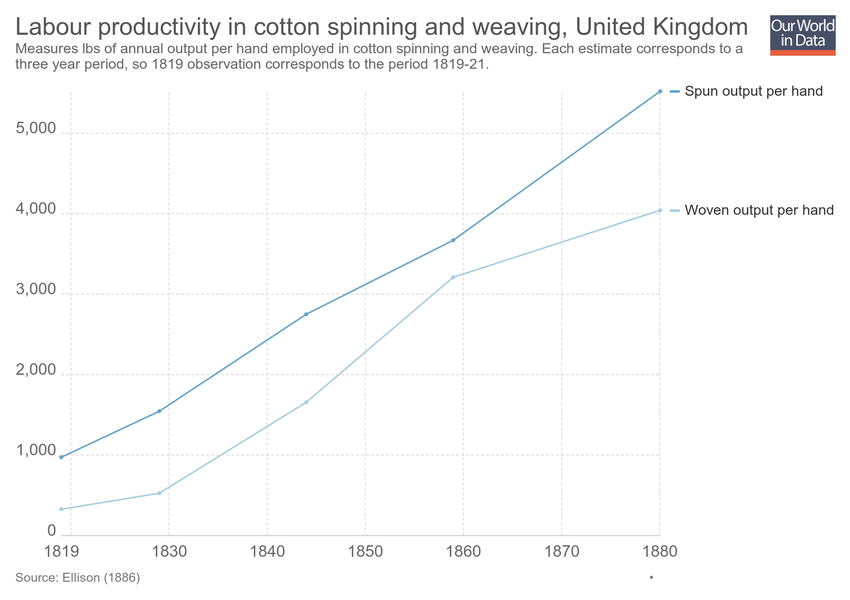
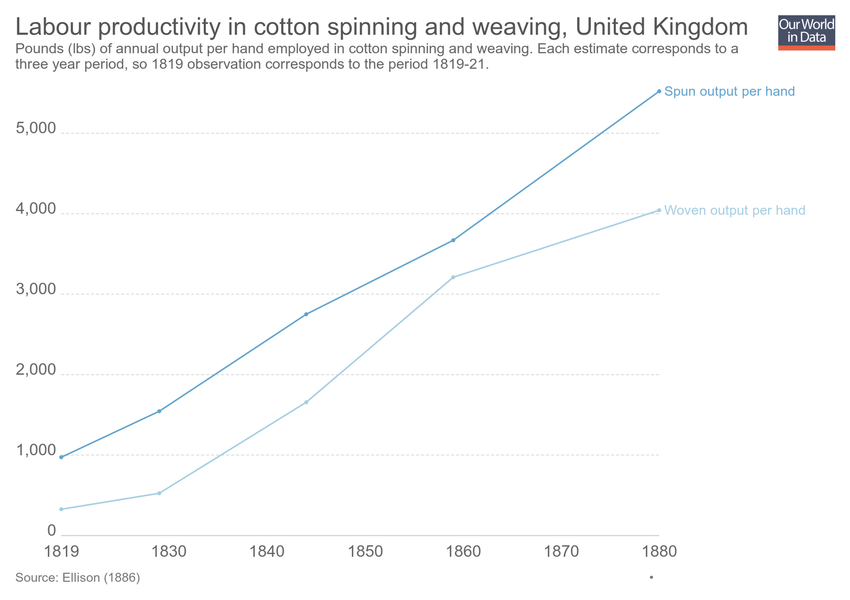
Updating chart labour-productivity-in-cotton-spinning-and-weaving

diff --git a/grapher/rate-of-internationally-observed-elections.html b/grapher/rate-of-internationally-observed-elections.html
@@ -1,4 +1,4 @@
-<!doctype html><html><head><meta name="viewport" content="width=device-width, initial-scale=1" /><title>Internationally observed elections (%) - Our World in Data</title><meta name="description" content="Percentage of internationally observed elections and whether they were criticized by international observers. Figures cover 1,754 election events in 157 independent states, excluding those with population less than 250,000." /><link rel="canonical" href="https://ourworldindata.org/grapher/rate-of-internationally-observed-elections" /><meta property="fb:app_id" content="1149943818390250" /><meta property="og:url" content="https://ourworldindata.org/grapher/rate-of-internationally-observed-elections" /><meta property="og:title" content="Internationally observed elections (%)" /><meta property="og:description" content="Percentage of internationally observed elections and whether they were criticized by international observers. Figures cover 1,754 election events in 157 independent states, excluding those with population less than 250,000." /><meta property="og:image" content="https://ourworldindata.org/grapher/exports/rate-of-internationally-observed-elections.png?v=16" /><meta property="og:image:width" content="850" /><meta property="og:image:height" content="600" /><meta property="og:site_name" content="Our World in Data" /><meta name="twitter:card" content="summary_large_image" /><meta name="twitter:site" content="@OurWorldInData" /><meta name="twitter:creator" content="@OurWorldInData" /><meta name="twitter:title" content="Internationally observed elections (%)" /><meta name="twitter:description" content="Percentage of internationally observed elections and whether they were criticized by international observers. Figures cover 1,754 election events in 157 independent states, excluding those with population less than 250,000." /><meta name="twitter:image" content="https://ourworldindata.org/grapher/exports/rate-of-internationally-observed-elections.png?v=16" /><style>
+<!doctype html><html><head><meta name="viewport" content="width=device-width, initial-scale=1" /><title>Internationally observed elections by Western monitors - Our World in Data</title><meta name="description" content="Estimates correspond to the number of international elections that were either observed and criticized by Western monitors, observed and not criticized by Western monitors, or elections that were not observed by Western monitors. Criticism refers to allegations of significant vote-fraud." /><link rel="canonical" href="https://ourworldindata.org/grapher/rate-of-internationally-observed-elections" /><meta property="fb:app_id" content="1149943818390250" /><meta property="og:url" content="https://ourworldindata.org/grapher/rate-of-internationally-observed-elections" /><meta property="og:title" content="Internationally observed elections by Western monitors" /><meta property="og:description" content="Estimates correspond to the number of international elections that were either observed and criticized by Western monitors, observed and not criticized by Western monitors, or elections that were not observed by Western monitors. Criticism refers to allegations of significant vote-fraud." /><meta property="og:image" content="https://ourworldindata.org/grapher/exports/rate-of-internationally-observed-elections.png?v=9" /><meta property="og:image:width" content="850" /><meta property="og:image:height" content="600" /><meta property="og:site_name" content="Our World in Data" /><meta name="twitter:card" content="summary_large_image" /><meta name="twitter:site" content="@OurWorldInData" /><meta name="twitter:creator" content="@OurWorldInData" /><meta name="twitter:title" content="Internationally observed elections by Western monitors" /><meta name="twitter:description" content="Estimates correspond to the number of international elections that were either observed and criticized by Western monitors, observed and not criticized by Western monitors, or elections that were not observed by Western monitors. Criticism refers to allegations of significant vote-fraud." /><meta name="twitter:image" content="https://ourworldindata.org/grapher/exports/rate-of-internationally-observed-elections.png?v=9" /><style>
         html, body {
             height: 100%;
             margin: 0;
@@ -20,8 +20,8 @@
         }
     </style><noscript><style>
                     figure { display: none !important; }
-                </style></noscript><link rel="stylesheet" href="https://ourworldindata.org/grapher/assets/commons.bundle.ac09ff8f098f0c7be836.css" /><link rel="preload" href="/grapher/data/variables/97378+97379.json?v=16" as="fetch" crossorigin /></head><body class="singleChart"><figure data-grapher-src="/grapher/rate-of-internationally-observed-elections"></figure><noscript id="fallback"><img src="/grapher/exports/rate-of-internationally-observed-elections.svg" /><p>Interactive visualization requires JavaScript</p></noscript><script src="https://cdn.polyfill.io/v2/polyfill.min.js?features=es6,fetch"></script><script src="https://ourworldindata.org/grapher/assets/commons.bundle.ac09ff8f098f0c7be836.js"></script><script src="https://ourworldindata.org/grapher/assets/charts.bundle.dcf65b68eddaba4c6a58.js"></script><script>
-        var jsonConfig = {"id":2589,"map":{"projection":"World","colorSchemeLabels":[],"colorSchemeValues":[],"colorSchemeMinValue":0,"customNumericColors":[],"customCategoryColors":{},"customCategoryLabels":{},"customHiddenCategories":{}},"tab":"chart","slug":"rate-of-internationally-observed-elections","type":"StackedArea","title":"Internationally observed elections (%)","xAxis":{"scaleType":"linear"},"yAxis":{"max":80,"min":0,"scaleType":"linear"},"version":16,"subtitle":"Percentage of internationally observed elections and whether they were criticized by international observers. Figures cover 1,754 election events in 157 independent states, excluding those with population less than 250,000.","hasMapTab":false,"stackMode":"absolute","dimensions":[{"display":{"name":"Percent of elections observed and criticised","unit":"%"},"property":"y","variableId":97378},{"display":{"name":"Percent of elections observed and not criticised"},"property":"y","variableId":97379}],"hasChartTab":true,"isPublished":true,"selectedData":[{"index":0,"entityId":355},{"index":1,"entityId":355}],"addCountryMode":"change-country","baseColorScheme":"Plasma","hideRelativeToggle":true,"hideTitleAnnotation":true};
+                </style></noscript><link rel="stylesheet" href="https://ourworldindata.org/grapher/assets/commons.bundle.ac09ff8f098f0c7be836.css" /><link rel="preload" href="/grapher/data/variables/97399+97400+97401.json?v=9" as="fetch" crossorigin /></head><body class="singleChart"><figure data-grapher-src="/grapher/rate-of-internationally-observed-elections"></figure><noscript id="fallback"><img src="/grapher/exports/rate-of-internationally-observed-elections.svg" /><p>Interactive visualization requires JavaScript</p></noscript><script src="https://cdn.polyfill.io/v2/polyfill.min.js?features=es6,fetch"></script><script src="https://ourworldindata.org/grapher/assets/commons.bundle.ac09ff8f098f0c7be836.js"></script><script src="https://ourworldindata.org/grapher/assets/charts.bundle.dcf65b68eddaba4c6a58.js"></script><script>
+        var jsonConfig = {"id":2598,"map":{"projection":"World","colorSchemeLabels":[],"colorSchemeValues":[],"customNumericColors":[],"customCategoryColors":{},"customCategoryLabels":{},"customHiddenCategories":{}},"tab":"chart","note":"Includes 2435 election events in 162 countries","slug":"rate-of-internationally-observed-elections","type":"StackedArea","title":"Internationally observed elections by Western monitors","xAxis":{"scaleType":"linear"},"yAxis":{"min":0,"scaleType":"linear"},"version":9,"subtitle":"Estimates correspond to the number of international elections that were either observed and criticized by Western monitors, observed and not criticized by Western monitors, or elections that were not observed by Western monitors. Criticism refers to allegations of significant vote-fraud.","hasMapTab":false,"stackMode":"relative","dimensions":[{"display":{"name":"Elections not observed","unit":"elections","shortUnit":""},"property":"y","variableId":97399},{"display":{"name":"Elections observed and criticized"},"property":"y","variableId":97400},{"display":{"name":"Elections observed and not critcized"},"property":"y","variableId":97401}],"hasChartTab":true,"isPublished":true,"selectedData":[{"index":0,"entityId":355},{"index":2,"entityId":355},{"index":1,"entityId":355}],"addCountryMode":"change-country","baseColorScheme":"owid-distinct","invertColorScheme":true,"hideTitleAnnotation":true};
         var figure = document.getElementsByTagName("figure")[0];
         try {
             window.App = {};

diff --git a/grapher/labour-productivity-in-cotton-spinning-and-weaving.html b/grapher/labour-productivity-in-cotton-spinning-and-weaving.html
@@ -1,4 +1,4 @@
-<!doctype html><html><head><meta name="viewport" content="width=device-width, initial-scale=1" /><title>Labour productivity in cotton spinning and weaving - Our World in Data</title><meta name="description" content="Measures lbs of annual output per hand employed in cotton spinning and weaving. Each estimate corresponds to a three year period, so 1819 observation corresponds to the period 1819-21." /><link rel="canonical" href="https://ourworldindata.org/grapher/labour-productivity-in-cotton-spinning-and-weaving" /><meta property="fb:app_id" content="1149943818390250" /><meta property="og:url" content="https://ourworldindata.org/grapher/labour-productivity-in-cotton-spinning-and-weaving" /><meta property="og:title" content="Labour productivity in cotton spinning and weaving" /><meta property="og:description" content="Measures lbs of annual output per hand employed in cotton spinning and weaving. Each estimate corresponds to a three year period, so 1819 observation corresponds to the period 1819-21." /><meta property="og:image" content="https://ourworldindata.org/grapher/exports/labour-productivity-in-cotton-spinning-and-weaving.png?v=5" /><meta property="og:image:width" content="850" /><meta property="og:image:height" content="600" /><meta property="og:site_name" content="Our World in Data" /><meta name="twitter:card" content="summary_large_image" /><meta name="twitter:site" content="@OurWorldInData" /><meta name="twitter:creator" content="@OurWorldInData" /><meta name="twitter:title" content="Labour productivity in cotton spinning and weaving" /><meta name="twitter:description" content="Measures lbs of annual output per hand employed in cotton spinning and weaving. Each estimate corresponds to a three year period, so 1819 observation corresponds to the period 1819-21." /><meta name="twitter:image" content="https://ourworldindata.org/grapher/exports/labour-productivity-in-cotton-spinning-and-weaving.png?v=5" /><style>
+<!doctype html><html><head><meta name="viewport" content="width=device-width, initial-scale=1" /><title>Labour productivity in cotton spinning and weaving - Our World in Data</title><meta name="description" content="Pounds (lbs) of annual output per hand employed in cotton spinning and weaving. Each estimate corresponds to a three year period, so 1819 observation corresponds to the period 1819-21." /><link rel="canonical" href="https://ourworldindata.org/grapher/labour-productivity-in-cotton-spinning-and-weaving" /><meta property="fb:app_id" content="1149943818390250" /><meta property="og:url" content="https://ourworldindata.org/grapher/labour-productivity-in-cotton-spinning-and-weaving" /><meta property="og:title" content="Labour productivity in cotton spinning and weaving" /><meta property="og:description" content="Pounds (lbs) of annual output per hand employed in cotton spinning and weaving. Each estimate corresponds to a three year period, so 1819 observation corresponds to the period 1819-21." /><meta property="og:image" content="https://ourworldindata.org/grapher/exports/labour-productivity-in-cotton-spinning-and-weaving.png?v=6" /><meta property="og:image:width" content="850" /><meta property="og:image:height" content="600" /><meta property="og:site_name" content="Our World in Data" /><meta name="twitter:card" content="summary_large_image" /><meta name="twitter:site" content="@OurWorldInData" /><meta name="twitter:creator" content="@OurWorldInData" /><meta name="twitter:title" content="Labour productivity in cotton spinning and weaving" /><meta name="twitter:description" content="Pounds (lbs) of annual output per hand employed in cotton spinning and weaving. Each estimate corresponds to a three year period, so 1819 observation corresponds to the period 1819-21." /><meta name="twitter:image" content="https://ourworldindata.org/grapher/exports/labour-productivity-in-cotton-spinning-and-weaving.png?v=6" /><style>
         html, body {
             height: 100%;
             margin: 0;
@@ -20,8 +20,8 @@
         }
     </style><noscript><style>
                     figure { display: none !important; }
-                </style></noscript><link rel="stylesheet" href="https://ourworldindata.org/grapher/assets/commons.bundle.ac09ff8f098f0c7be836.css" /><link rel="preload" href="/grapher/data/variables/85385+85382.json?v=5" as="fetch" crossorigin /></head><body class="singleChart"><figure data-grapher-src="/grapher/labour-productivity-in-cotton-spinning-and-weaving"></figure><noscript id="fallback"><img src="/grapher/exports/labour-productivity-in-cotton-spinning-and-weaving.svg" /><p>Interactive visualization requires JavaScript</p></noscript><script src="https://cdn.polyfill.io/v2/polyfill.min.js?features=es6,fetch"></script><script src="https://ourworldindata.org/grapher/assets/commons.bundle.ac09ff8f098f0c7be836.js"></script><script src="https://ourworldindata.org/grapher/assets/charts.bundle.dcf65b68eddaba4c6a58.js"></script><script>
-        var jsonConfig = {"id":2172,"map":{"projection":"World","colorSchemeLabels":[],"colorSchemeValues":[],"defaultProjection":"World","colorSchemeMinValue":0,"customNumericColors":[],"customCategoryColors":{},"customCategoryLabels":{},"customHiddenCategories":{}},"tab":"chart","slug":"labour-productivity-in-cotton-spinning-and-weaving","type":"LineChart","title":"Labour productivity in cotton spinning and weaving","xAxis":{"scaleType":"linear"},"yAxis":{"min":0,"scaleType":"linear","canChangeScaleType":true},"version":5,"subtitle":"Measures lbs of annual output per hand employed in cotton spinning and weaving. Each estimate corresponds to a three year period, so 1819 observation corresponds to the period 1819-21.","hasMapTab":false,"stackMode":"absolute","dimensions":[{"display":{"name":"Woven output per hand"},"property":"y","variableId":85385},{"display":{"name":"Spun output per hand"},"property":"y","variableId":85382}],"hasChartTab":true,"isPublished":true,"selectedData":[{"index":0,"entityId":1},{"index":1,"entityId":1}],"addCountryMode":"disabled","baseColorScheme":"Paired"};
+                </style></noscript><link rel="stylesheet" href="https://ourworldindata.org/grapher/assets/commons.bundle.ac09ff8f098f0c7be836.css" /><link rel="preload" href="/grapher/data/variables/85385+85382.json?v=6" as="fetch" crossorigin /></head><body class="singleChart"><figure data-grapher-src="/grapher/labour-productivity-in-cotton-spinning-and-weaving"></figure><noscript id="fallback"><img src="/grapher/exports/labour-productivity-in-cotton-spinning-and-weaving.svg" /><p>Interactive visualization requires JavaScript</p></noscript><script src="https://cdn.polyfill.io/v2/polyfill.min.js?features=es6,fetch"></script><script src="https://ourworldindata.org/grapher/assets/commons.bundle.ac09ff8f098f0c7be836.js"></script><script src="https://ourworldindata.org/grapher/assets/charts.bundle.dcf65b68eddaba4c6a58.js"></script><script>
+        var jsonConfig = {"id":2172,"map":{"projection":"World","colorSchemeLabels":[],"colorSchemeValues":[],"colorSchemeMinValue":0,"customNumericColors":[],"customCategoryColors":{},"customCategoryLabels":{},"customHiddenCategories":{}},"tab":"chart","slug":"labour-productivity-in-cotton-spinning-and-weaving","type":"LineChart","title":"Labour productivity in cotton spinning and weaving","xAxis":{"scaleType":"linear"},"yAxis":{"min":0,"scaleType":"linear"},"version":6,"subtitle":"Pounds (lbs) of annual output per hand employed in cotton spinning and weaving. Each estimate corresponds to a three year period, so 1819 observation corresponds to the period 1819-21.","hasMapTab":false,"stackMode":"absolute","dimensions":[{"display":{"name":"Woven output per hand"},"property":"y","variableId":85385},{"display":{"name":"Spun output per hand"},"property":"y","variableId":85382}],"hasChartTab":true,"isPublished":true,"selectedData":[{"index":0,"entityId":1},{"index":1,"entityId":1}],"addCountryMode":"disabled","baseColorScheme":"Paired"};
         var figure = document.getElementsByTagName("figure")[0];
         try {
             window.App = {};

diff --git a/grapher/cotton-spinning-and-weaving-output.html b/grapher/cotton-spinning-and-weaving-output.html
@@ -1,4 +1,4 @@
-<!doctype html><html><head><meta name="viewport" content="width=device-width, initial-scale=1" /><title>Cotton spinning and weaving output - Our World in Data</title><meta name="description" content="Measures the lbs of total cotton output spun and woven in the United Kingdom. " /><link rel="canonical" href="https://ourworldindata.org/grapher/cotton-spinning-and-weaving-output" /><meta property="fb:app_id" content="1149943818390250" /><meta property="og:url" content="https://ourworldindata.org/grapher/cotton-spinning-and-weaving-output" /><meta property="og:title" content="Cotton spinning and weaving output" /><meta property="og:description" content="Measures the lbs of total cotton output spun and woven in the United Kingdom. " /><meta property="og:image" content="https://ourworldindata.org/grapher/exports/cotton-spinning-and-weaving-output.png?v=1" /><meta property="og:image:width" content="850" /><meta property="og:image:height" content="600" /><meta property="og:site_name" content="Our World in Data" /><meta name="twitter:card" content="summary_large_image" /><meta name="twitter:site" content="@OurWorldInData" /><meta name="twitter:creator" content="@OurWorldInData" /><meta name="twitter:title" content="Cotton spinning and weaving output" /><meta name="twitter:description" content="Measures the lbs of total cotton output spun and woven in the United Kingdom. " /><meta name="twitter:image" content="https://ourworldindata.org/grapher/exports/cotton-spinning-and-weaving-output.png?v=1" /><style>
+<!doctype html><html><head><meta name="viewport" content="width=device-width, initial-scale=1" /><title>Cotton spinning and weaving output - Our World in Data</title><meta name="description" content="Pounds (lbs) of total cotton output spun and woven in the United Kingdom. " /><link rel="canonical" href="https://ourworldindata.org/grapher/cotton-spinning-and-weaving-output" /><meta property="fb:app_id" content="1149943818390250" /><meta property="og:url" content="https://ourworldindata.org/grapher/cotton-spinning-and-weaving-output" /><meta property="og:title" content="Cotton spinning and weaving output" /><meta property="og:description" content="Pounds (lbs) of total cotton output spun and woven in the United Kingdom. " /><meta property="og:image" content="https://ourworldindata.org/grapher/exports/cotton-spinning-and-weaving-output.png?v=3" /><meta property="og:image:width" content="850" /><meta property="og:image:height" content="600" /><meta property="og:site_name" content="Our World in Data" /><meta name="twitter:card" content="summary_large_image" /><meta name="twitter:site" content="@OurWorldInData" /><meta name="twitter:creator" content="@OurWorldInData" /><meta name="twitter:title" content="Cotton spinning and weaving output" /><meta name="twitter:description" content="Pounds (lbs) of total cotton output spun and woven in the United Kingdom. " /><meta name="twitter:image" content="https://ourworldindata.org/grapher/exports/cotton-spinning-and-weaving-output.png?v=3" /><style>
         html, body {
             height: 100%;
             margin: 0;
@@ -20,8 +20,8 @@
         }
     </style><noscript><style>
                     figure { display: none !important; }
-                </style></noscript><link rel="stylesheet" href="https://ourworldindata.org/grapher/assets/commons.bundle.ac09ff8f098f0c7be836.css" /><link rel="preload" href="/grapher/data/variables/85380+85383.json?v=1" as="fetch" crossorigin /></head><body class="singleChart"><figure data-grapher-src="/grapher/cotton-spinning-and-weaving-output"></figure><noscript id="fallback"><img src="/grapher/exports/cotton-spinning-and-weaving-output.svg" /><p>Interactive visualization requires JavaScript</p></noscript><script src="https://cdn.polyfill.io/v2/polyfill.min.js?features=es6,fetch"></script><script src="https://ourworldindata.org/grapher/assets/commons.bundle.ac09ff8f098f0c7be836.js"></script><script src="https://ourworldindata.org/grapher/assets/charts.bundle.dcf65b68eddaba4c6a58.js"></script><script>
-        var jsonConfig = {"map":{"projection":"World","colorSchemeLabels":[],"colorSchemeValues":[],"defaultProjection":"World","colorSchemeMinValue":0,"customNumericColors":[],"customCategoryColors":{},"customCategoryLabels":{},"customHiddenCategories":{}},"tab":"chart","slug":"cotton-spinning-and-weaving-output","type":"LineChart","title":"Cotton spinning and weaving output","xAxis":{"scaleType":"linear"},"yAxis":{"min":0,"scaleType":"linear","canChangeScaleType":true},"version":1,"subtitle":"Measures the lbs of total cotton output spun and woven in the United Kingdom. ","hasMapTab":false,"stackMode":"absolute","dimensions":[{"display":{"name":"Yarn spun","shortUnit":"lbs"},"property":"y","variableId":85380},{"display":{"name":"Cloth woven"},"property":"y","variableId":85383}],"isAutoSlug":true,"hasChartTab":true,"isPublished":true,"selectedData":[{"index":0,"entityId":1},{"index":1,"entityId":1}],"addCountryMode":"change-country","id":2223};
+                </style></noscript><link rel="stylesheet" href="https://ourworldindata.org/grapher/assets/commons.bundle.ac09ff8f098f0c7be836.css" /><link rel="preload" href="/grapher/data/variables/85380+85383.json?v=3" as="fetch" crossorigin /></head><body class="singleChart"><figure data-grapher-src="/grapher/cotton-spinning-and-weaving-output"></figure><noscript id="fallback"><img src="/grapher/exports/cotton-spinning-and-weaving-output.svg" /><p>Interactive visualization requires JavaScript</p></noscript><script src="https://cdn.polyfill.io/v2/polyfill.min.js?features=es6,fetch"></script><script src="https://ourworldindata.org/grapher/assets/commons.bundle.ac09ff8f098f0c7be836.js"></script><script src="https://ourworldindata.org/grapher/assets/charts.bundle.dcf65b68eddaba4c6a58.js"></script><script>
+        var jsonConfig = {"id":2223,"map":{"projection":"World","colorSchemeLabels":[],"colorSchemeValues":[],"colorSchemeMinValue":0,"customNumericColors":[],"customCategoryColors":{},"customCategoryLabels":{},"customHiddenCategories":{}},"tab":"chart","slug":"cotton-spinning-and-weaving-output","type":"LineChart","title":"Cotton spinning and weaving output","xAxis":{"scaleType":"linear"},"yAxis":{"min":0,"scaleType":"linear"},"version":3,"subtitle":"Pounds (lbs) of total cotton output spun and woven in the United Kingdom. ","hasMapTab":false,"stackMode":"absolute","dimensions":[{"display":{"name":"Yarn spun","shortUnit":"lbs"},"property":"y","variableId":85380},{"display":{"name":"Cloth woven"},"property":"y","variableId":85383}],"hasChartTab":true,"isPublished":true,"selectedData":[{"index":0,"entityId":1},{"index":1,"entityId":1}],"addCountryMode":"change-country"};
         var figure = document.getElementsByTagName("figure")[0];
         try {
             window.App = {};
